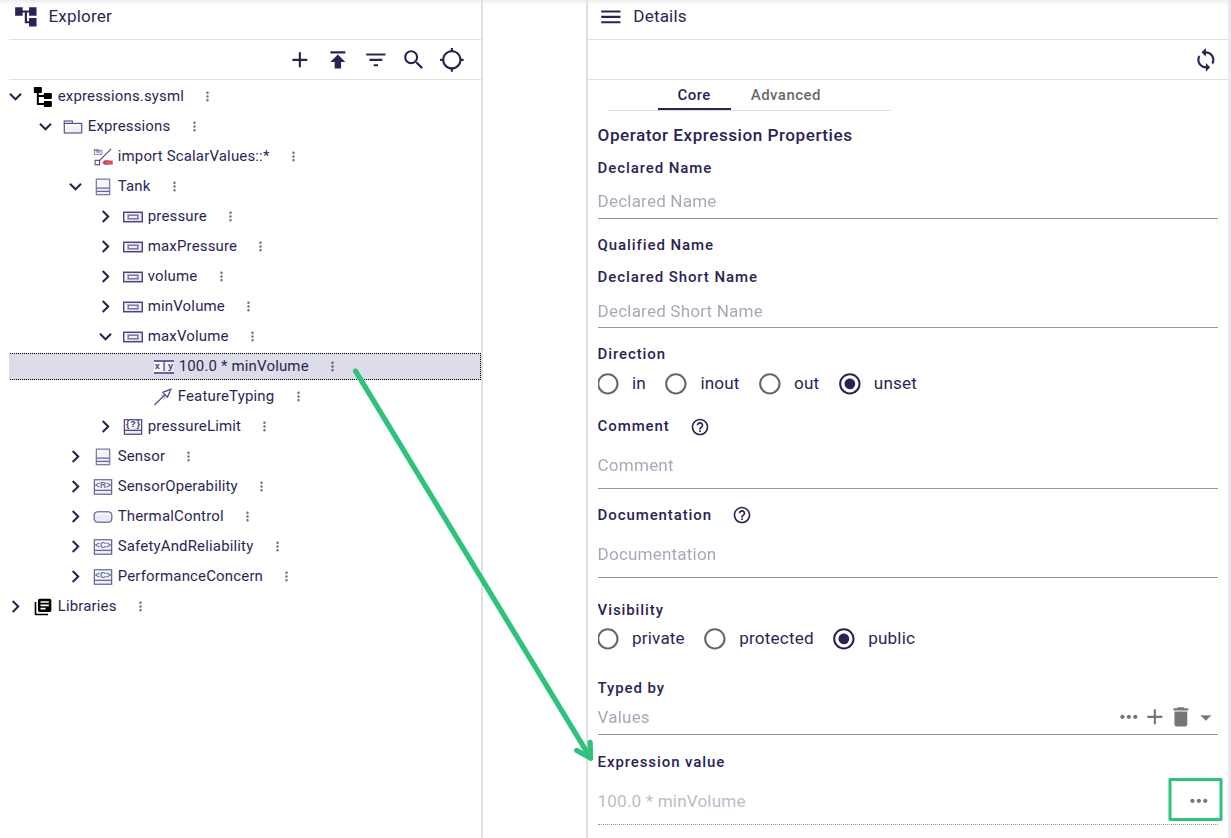
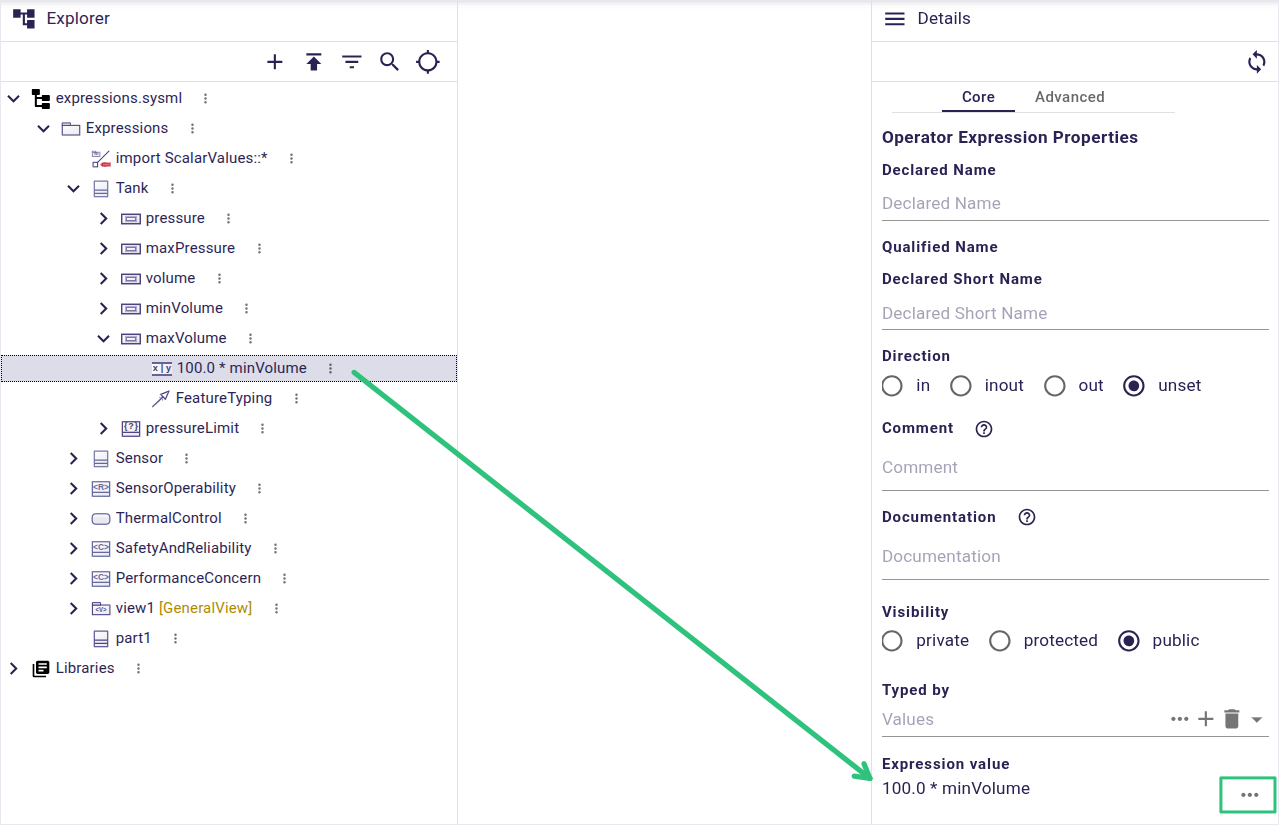
[2287] Use a plain label to display Expressions in the Details view
Bug: https://github.com/eclipse-syson/syson/issues/2287

Pull request: [2287] Use a plain label to display Expressions in the Details view
Bug: https://github.com/eclipse-syson/syson/issues/2287
Signed-off-by: Pierre-Charles David <[email redacted]>

# PLEASE READ ALL ITEMS AND CHECK ONLY RELEVANT CHECKBOXES BELOW

## Auto review

- [x] Have you reviewed this PR? Please do a first quick review, It is very useful to detect typos and missing copyrights, check comments, check your code... The reviewer will thank you for that :)

## Project management

- [x] Has the pull request been added to the relevant milestone?
- [x] Have the `priority:` and `pr:` labels been added to the pull request? (In case of doubt, start with the labels `priority: low` and `pr: to review later`)
- [x] Have the relevant issues been added to the pull request?
- [x] Have the relevant labels been added to the issues? (`area:`, `type:`)
- [x] Have the relevant issues been added to the same project milestone as the pull request?

## Changelog and release notes

- [x] Has the `CHANGELOG.adoc` + `doc/content/modules/user-manual/pages/release-notes/YYYY.MM.0.adoc` been updated to reference the relevant issues?
- [ ] Have the relevant API breaks been described in the `CHANGELOG.adoc`?
- [ ] Are the new / upgraded dependencies mentioned in the relevant section of the `CHANGELOG.adoc`?
- [x] In case of a change with a visual impact, are there any screenshots in the `doc/content/modules/user-manual/pages/release-notes/YYYY.MM.0.adoc`?
[…]

diff --git a/frontend/syson-components/src/extensions/expressions/ExpressionPropertySection.tsx b/frontend/syson-components/src/extensions/expressions/ExpressionPropertySection.tsx
@@ -20,11 +20,10 @@ import {
   PropertySectionLabel,
   TextfieldStyleProps,
 } from '@eclipse-sirius/sirius-components-forms';
+import Typography from '@mui/material/Typography';
 
 import MoreHorizIcon from '@mui/icons-material/MoreHoriz';
 import IconButton from '@mui/material/IconButton';
-import InputAdornment from '@mui/material/InputAdornment';
-import TextField from '@mui/material/TextField';
 import Tooltip from '@mui/material/Tooltip';
 import { useState } from 'react';
 import { makeStyles } from 'tss-react/mui';
@@ -141,46 +140,14 @@ export const ExpressionPropertySection: PropertySectionComponent<GQLTextfield | 
       <div className={classes.propertySectionLabel}>
         <PropertySectionLabel editingContextId={editingContextId} formId={formId} widget={widgetForLabel} />
       </div>
-      <TextField
-        name={labelOverride}
-        placeholder={labelOverride}
-        variant="standard"
-        value={widget.stringValue}
-        spellCheck={false}
-        margin="dense"
-        multiline={true}
-        maxRows={4}
-        fullWidth
-        data-testid={labelOverride}
-        disabled={true}
-        error={widget.diagnostics.length > 0}
-        helperText={widget.diagnostics[0]?.message}
-        className={classes.textfield}
-        InputProps={
-          widget.style
-            ? {
-                className: classes.style,
-              }
-            : {}
-        }
-        inputProps={{
-          'data-testid': `input-${labelOverride}`,
-          className: classes.input,
-        }}
-        slotProps={{
-          input: {
-            endAdornment: (
-              <InputAdornment position="end">
-                <Tooltip title={'Edit'}>
-                  <IconButton size="small" onClick={onEditExpression}>
-                    <MoreHorizIcon />
-                  </IconButton>
-                </Tooltip>
-              </InputAdornment>
-            ),
-          },
-        }}
-      />
+      <div style={{ display: 'flex', flexDirection: 'row', justifyContent: 'space-between' }}>
+        <Typography data-testid={`details-expression-value`}>{widget.stringValue}</Typography>
+        <Tooltip title={'Edit'}>
+          <IconButton size="small" onClick={onEditExpression}>
+            <MoreHorizIcon />
+          </IconButton>
+        </Tooltip>
+      </div>
       {modalElement}
     </div>
   );

diff --git a/integration-tests-cypress/cypress/e2e/project/details/details.cy.ts b/integration-tests-cypress/cypress/e2e/project/details/details.cy.ts
@@ -92,8 +92,8 @@ describe('Details View Tests', () => {
         explorer.select('vehicle.actualSpeed <= maxSpeed');
       });
       it("Then the Details view shows the expression's textual value", () => {
-        details.getTextField('Expression value').should('exist');
-        details.getTextField('Expression value').should('have.value', 'vehicle.actualSpeed <= maxSpeed');
+        cy.getByTestId('details-expression-value').should('exist');
+        cy.getByTestId('details-expression-value').should('have.text', 'vehicle.actualSpeed <= maxSpeed');
       });
     });
 
@@ -106,8 +106,8 @@ describe('Details View Tests', () => {
         explorer.select('length');
       });
       it("Then the Details view shows the child expression's textual value", () => {
-        details.getTextField('Expression value').should('exist');
-        details.getTextField('Expression value').should('have.value', '80 [SI::centimetre]');
+        cy.getByTestId('details-expression-value').should('exist');
+        cy.getByTestId('details-expression-value').should('have.text', '80 [SI::centimetre]');
       });
     });
   });